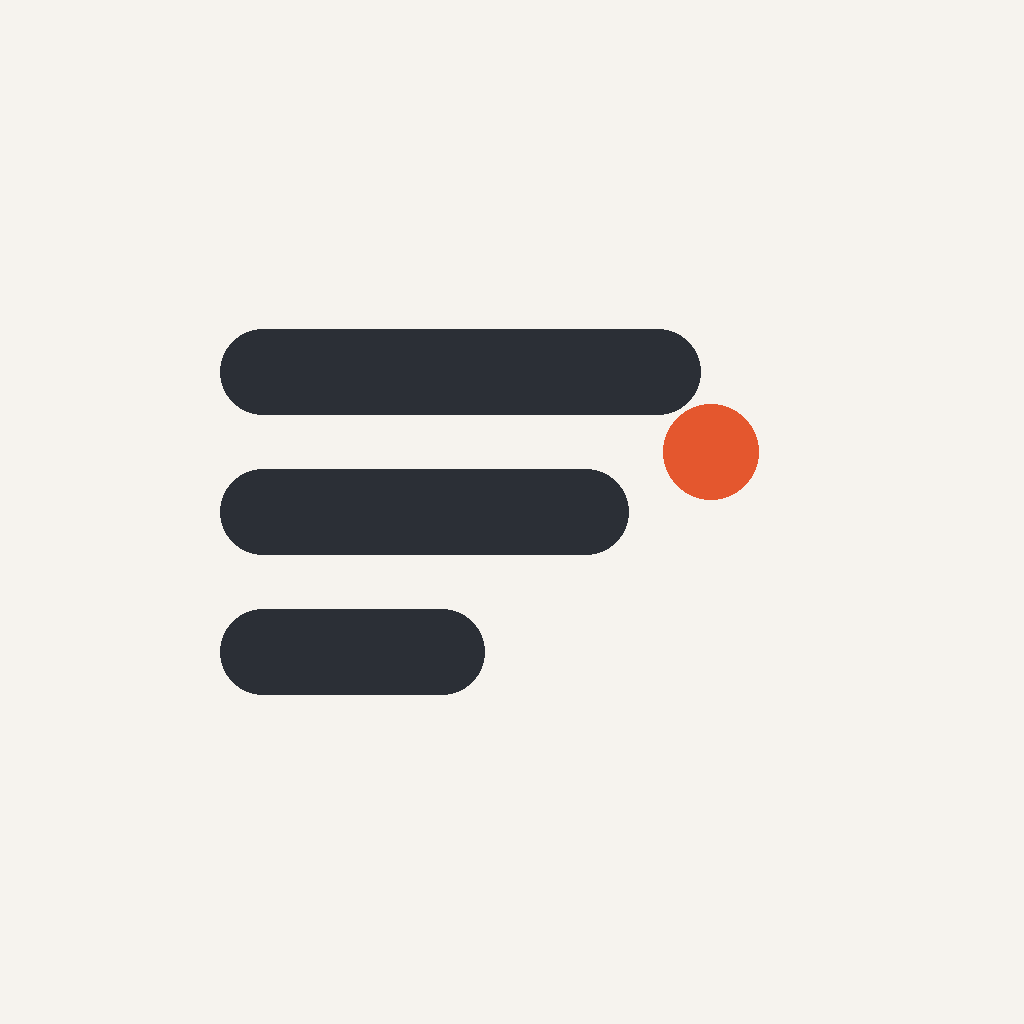
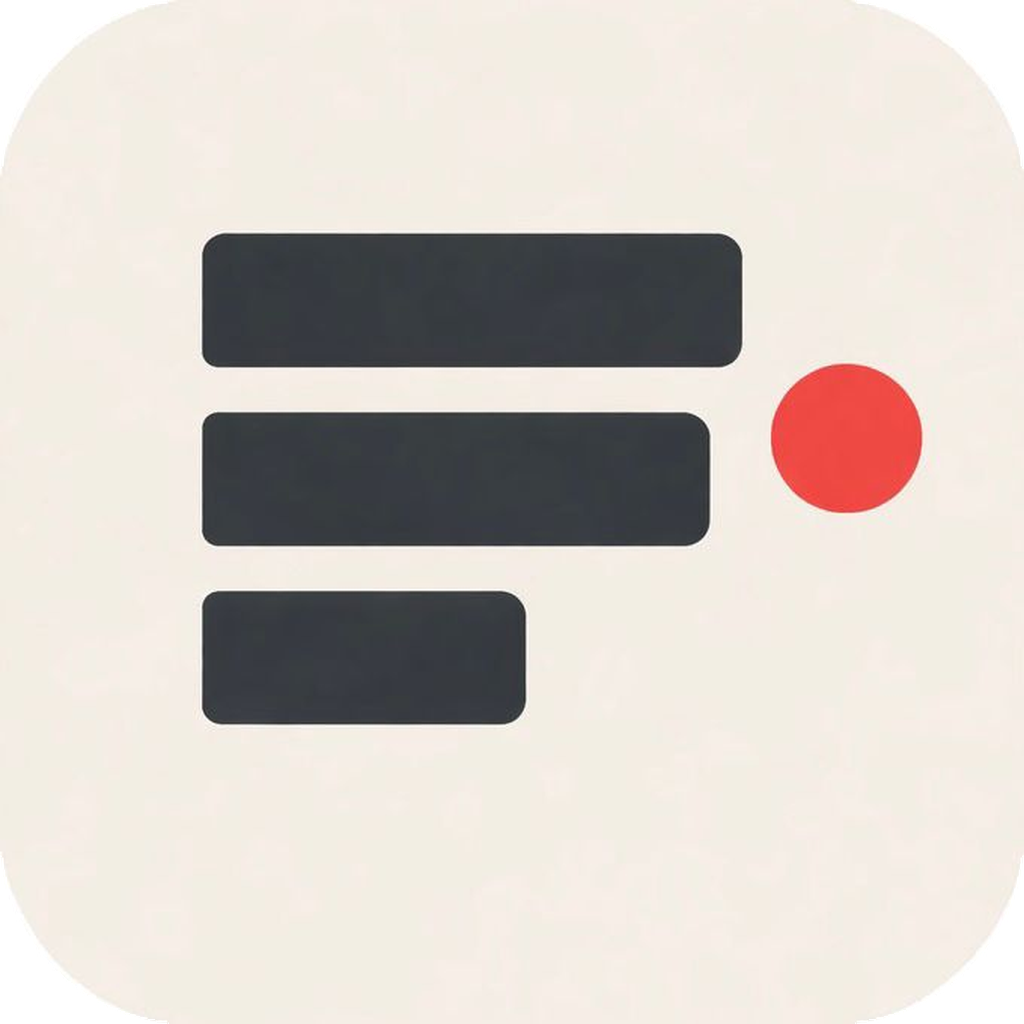
auto-commit for b86c5283-86d8-43ec-9f98-65b7526d8de7

Changed region(s): [[0.1875, 0.2188, 0.9062, 0.5312], [0.1875, 0.5312, 0.5938, 0.7188]]

diff --git a/frontend/app/(auth)/login.tsx b/frontend/app/(auth)/login.tsx
@@ -18,24 +18,22 @@ import { useAuth } from '@/src/context/AuthContext';
 import { colors } from '@/src/theme/colors';
 import AsyncStorage from '@react-native-async-storage/async-storage';
 
-// Custom Logo Mark Component - exact brand specs
-// Icon height: 60px (doubled), matches wordmark height
+// Custom Logo Mark Component - exact brand specs from SVG
+// SVG proportions: top=358, middle=336 (94%), bottom=214 (60%), dot r=50
 const LogoMark = () => {
-  const iconHeight = 60; // Doubled from 30
-  const barThickness = 14; // Doubled from 7
-  const barGap = 9; // Adjusted gap
-  const barRadius = 7; // Doubled from 3.5
-  const barColor = '#2B2F36';
-  const dotColor = '#E4572E';
-  const dotSize = 20; // Doubled from 10
-  const iconWidth = 64; // Doubled from 32
-  const dotSpacing = 12; // Doubled from 6
+  const iconHeight = 60;
+  const barThickness = 16;
+  const barRadius = 3;
+  const barColor = '#383C41';
+  const dotColor = '#EE4943';
+  const dotSize = 18;
+  const iconWidth = 66;
+  const dotSpacing = 4;
   
   return (
     <View style={{ 
       height: iconHeight, 
       flexDirection: 'row',
-      alignItems: 'center',
     }}>
       {/* Bars container */}
       <View style={{ 
@@ -50,28 +48,29 @@ const LogoMark = () => {
           backgroundColor: barColor, 
           borderRadius: barRadius,
         }} />
-        {/* Middle bar - 80% */}
+        {/* Middle bar - 94% */}
         <View style={{ 
-          width: iconWidth * 0.80, 
+          width: iconWidth * 0.94, 
           height: barThickness, 
           backgroundColor: barColor, 
           borderRadius: barRadius,
         }} />
-        {/* Bottom bar - 55% */}
+        {/* Bottom bar - 60% */}
         <View style={{ 
-          width: iconWidth * 0.55, 
+          width: iconWidth * 0.60, 
           height: barThickness, 
           backgroundColor: barColor, 
           borderRadius: barRadius,
         }} />
       </View>
-      {/* Red dot - vertically centered, spaced from bars */}
+      {/* Red dot - positioned between top and middle bars */}
       <View style={{ 
         width: dotSize, 
         height: dotSize, 
         backgroundColor: dotColor, 
         borderRadius: dotSize / 2,
         marginLeft: dotSpacing,
+        marginTop: 16,
       }} />
     </View>
   );
